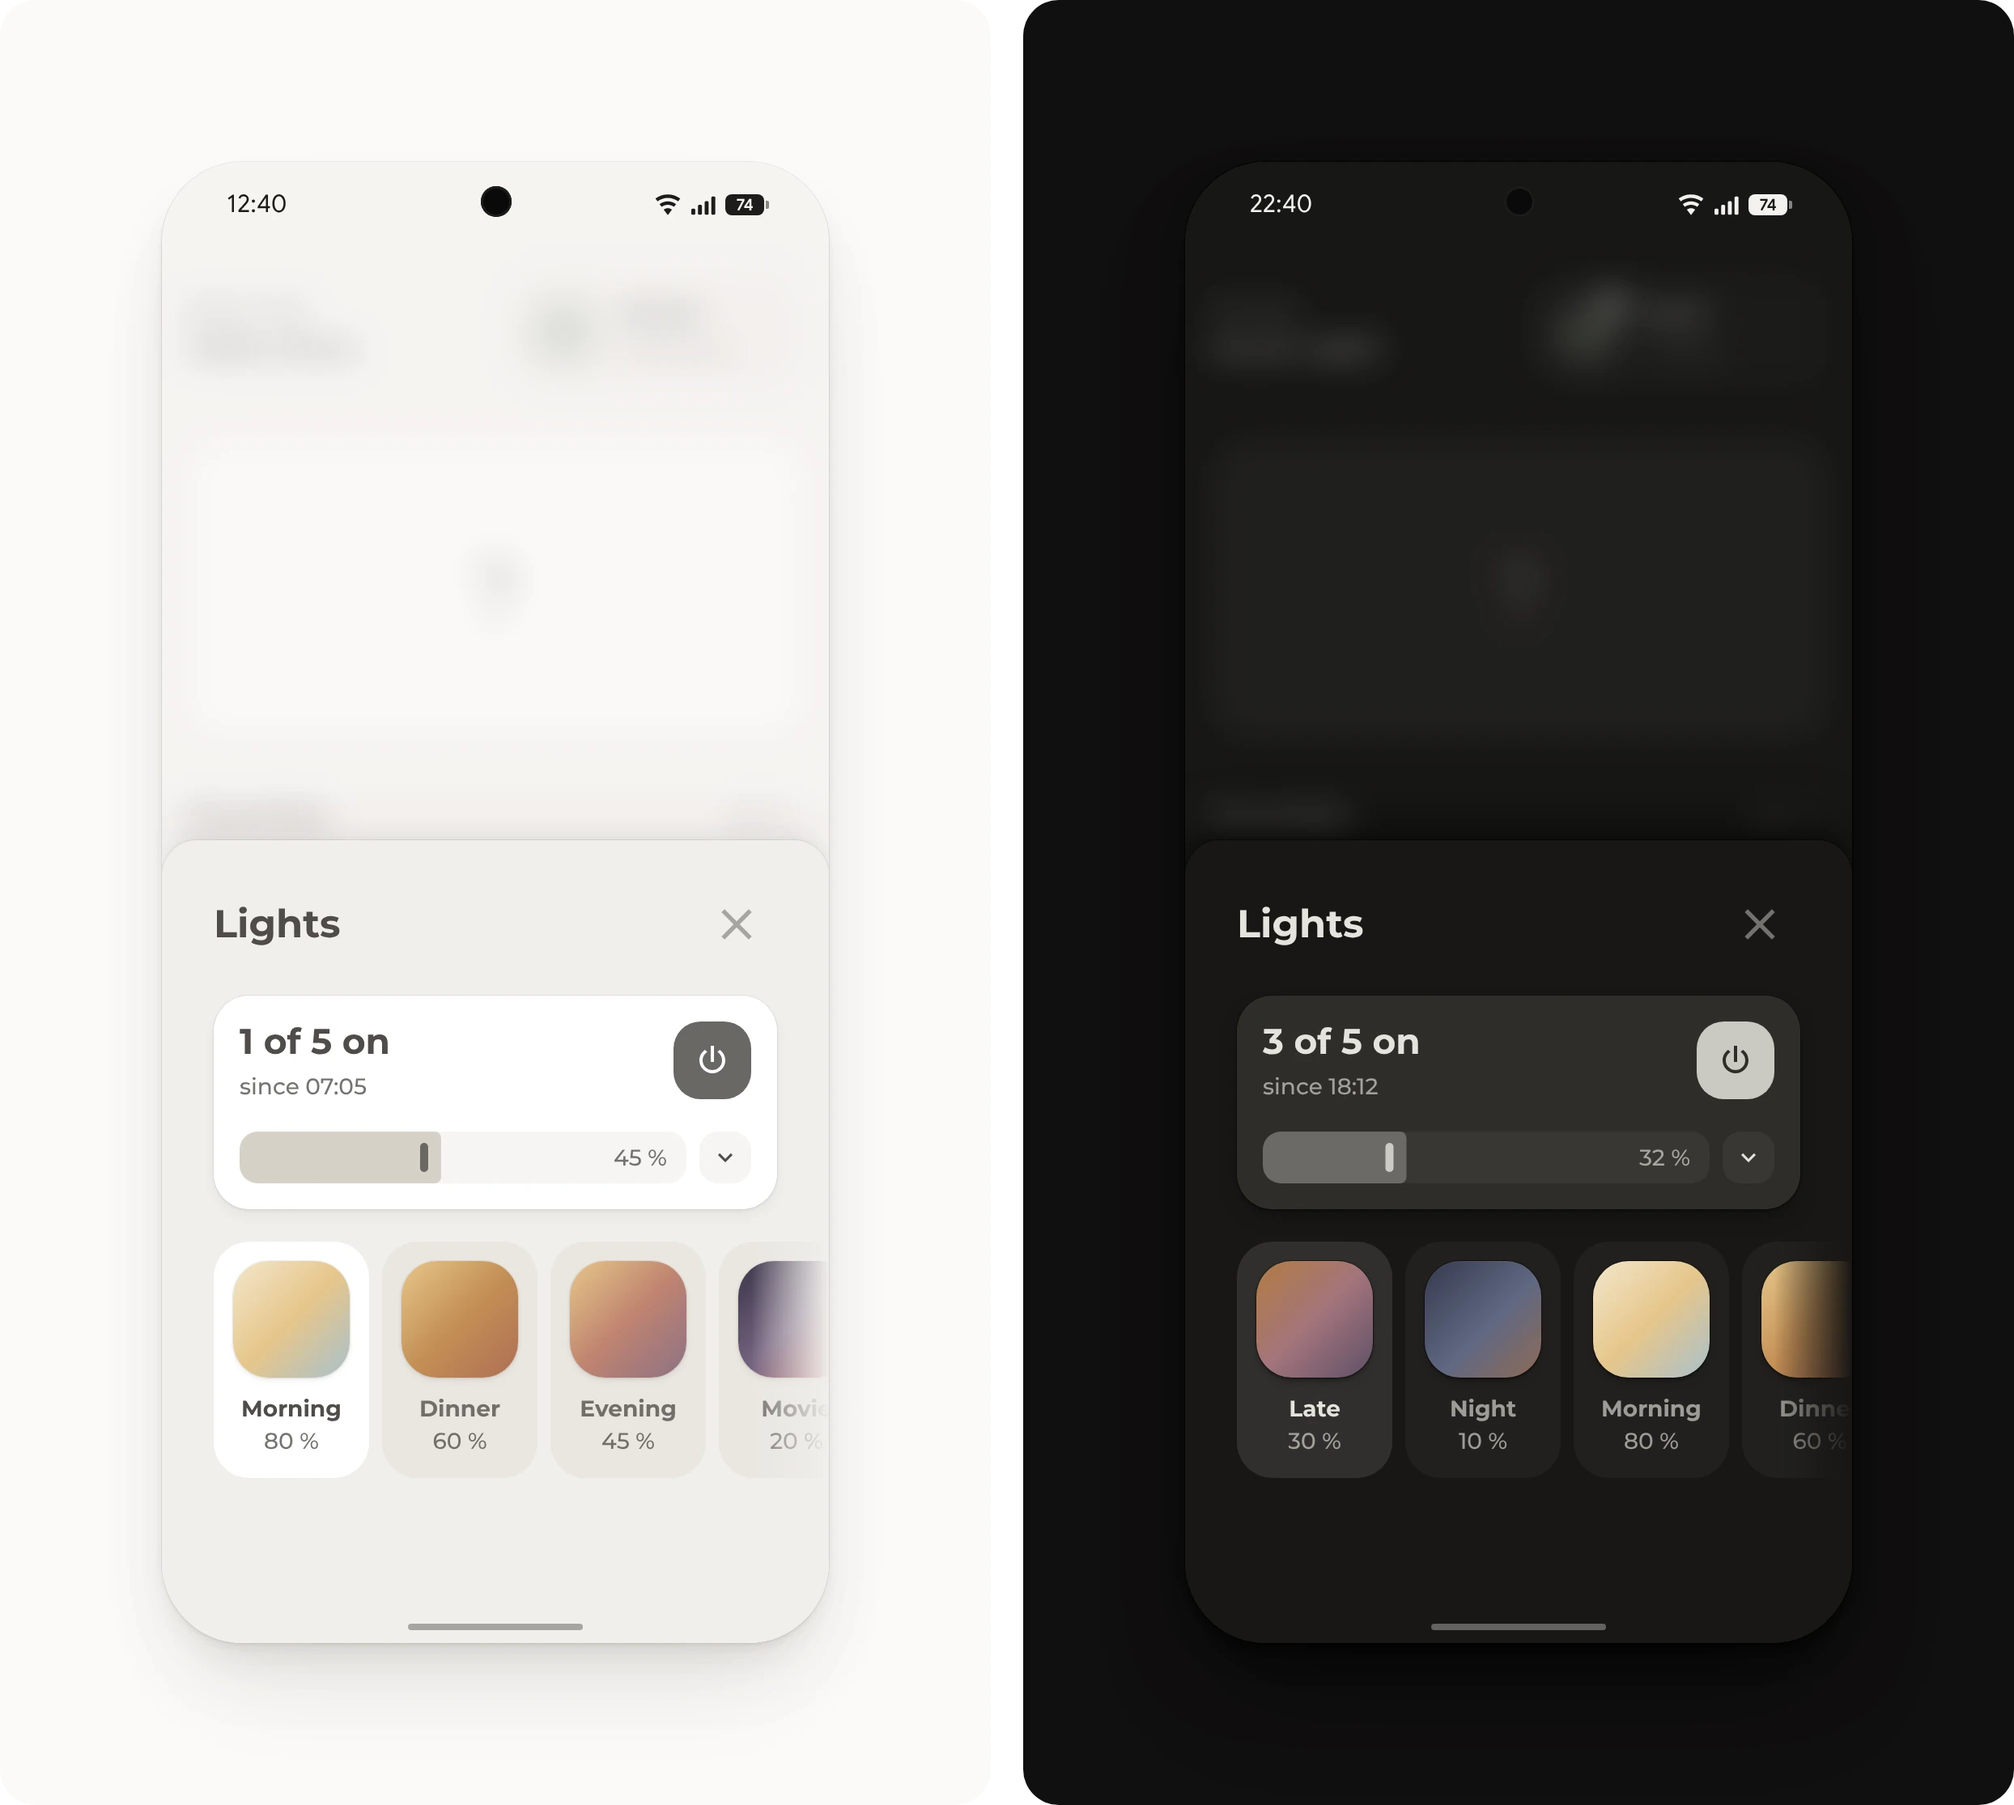
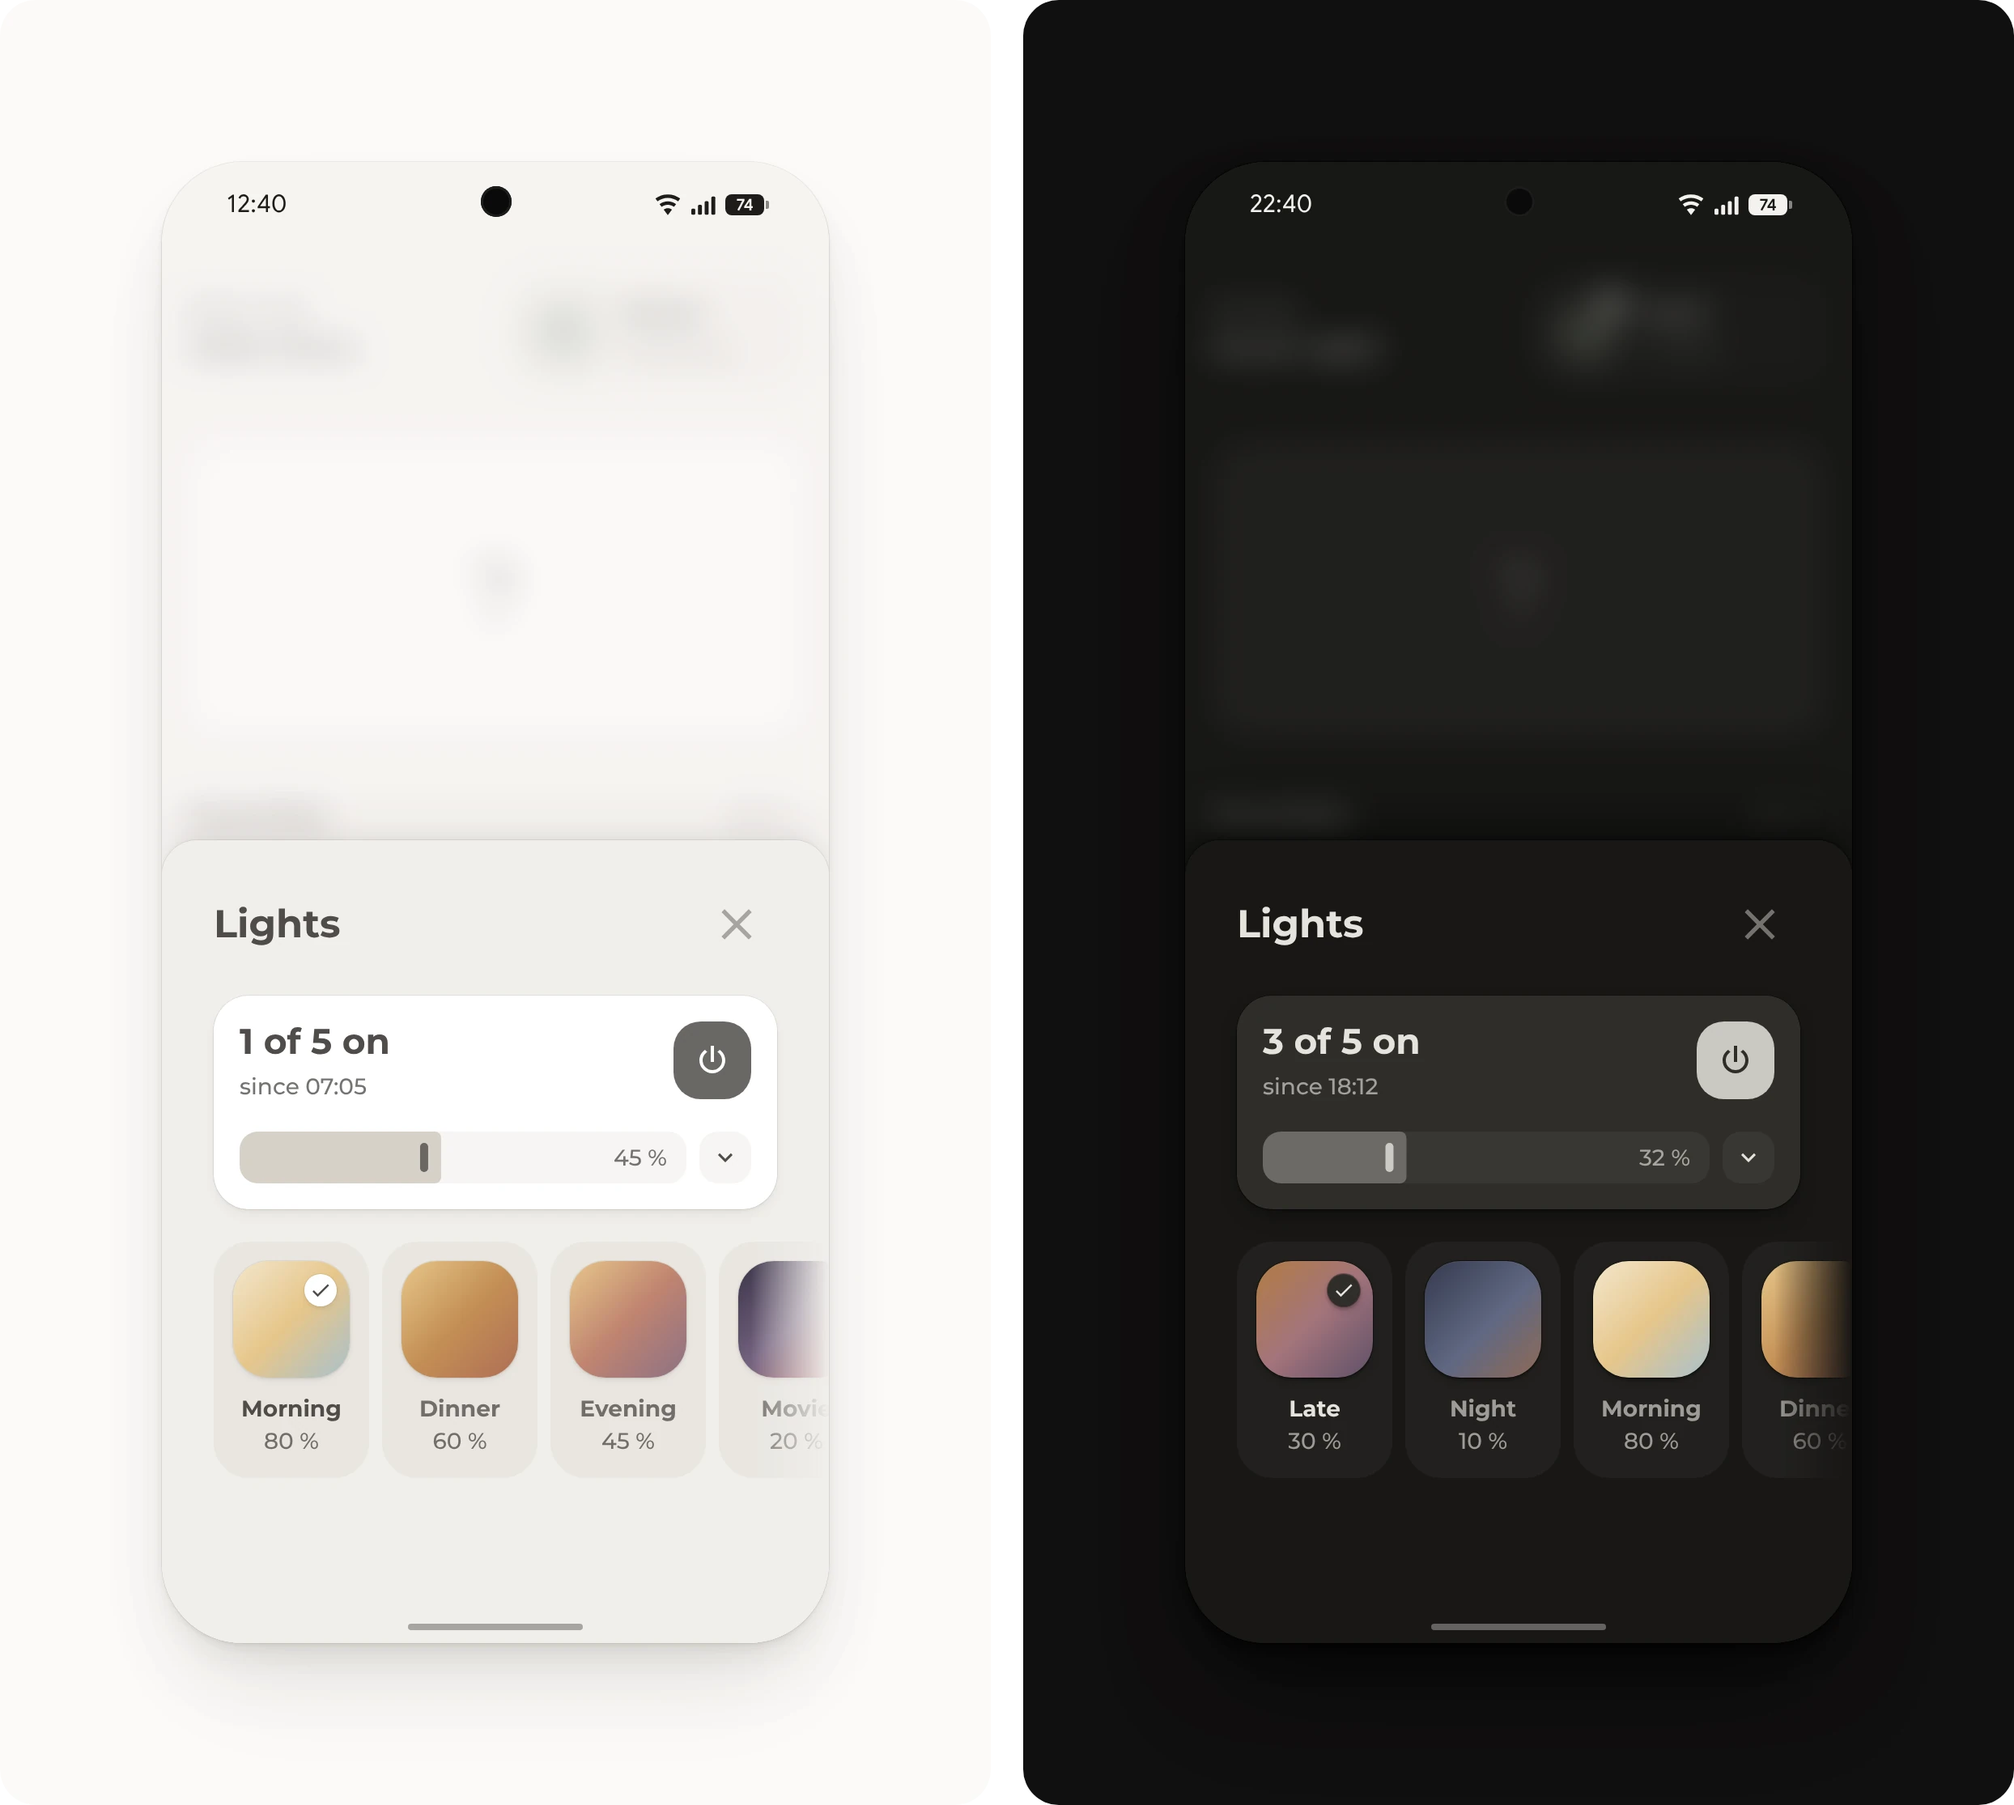
A check badge marks the active scene
The active box with colors keeps its fill and its colors, and a small round badge
with a check stands in the field's top corner: the card background with the chip
shadow, as the badges on the navigation bar, so it shows on light and dark colors
alike. It lies inside the field, so it takes no space and the scrolling row cuts
nothing off.

Changed region(s): [[0.0928, 0.6807, 0.1857, 0.8354], [0.6499, 0.7117, 0.6809, 0.7426]]

diff --git a/CHANGELOG.md b/CHANGELOG.md
@@ -102,7 +102,7 @@ These changes are in the `next` branch and come with the next release.
 - `active` also matches the entity that a button's tap targets.
 - Each button can have its own `name`, `icon`, `color`, `name_color`, `background` and `order` under an `origami_button` key. Its `color` is also its lamp color while it is lit.
 - A lit button is tinted in its own lamp color, such as the state color of its entity, instead of always the card's.
-- A button with `content_layout: icon-top` is a box like a tile, with its icon in a field above its name, 12 px around the field, 14 px above the text and 18 px below it, and the boxes in a row share one width. A box's name is bold. A lit box tints its field in its own color, as a lit tile does, and a box whose field holds a picture or colors takes the color of a key on a gray fill instead, without a shadow. A button's own `field` fills the field with a picture or a gradient instead of the icon, and its `label` adds a second line under the name, such as a scene's brightness. Both also work with `labels: below`.
+- A button with `content_layout: icon-top` is a box like a tile, with its icon in a field above its name, 12 px around the field, 14 px above the text and 18 px below it, and the boxes in a row share one width. A box's name is bold. A lit box tints its field in its own color, as a lit tile does, and a box whose field holds a picture or colors gets a small badge with a check in its field's corner instead. A button's own `field` fills the field with a picture or a gradient instead of the icon, and its `label` adds a second line under the name, such as a scene's brightness. Both also work with `labels: below`.
 - A button with `css_class: divider` is a short line between two buttons.
 - The active segment of a bar or a small switch has the fill of an active button with `active_style: toggle`, and it casts the chip shadow.
 - On a button card, a lit button has the tint of the card's lit icon. On a tile, the buttons have the card background and the chip shadow, as keys do.
@@ -154,7 +154,7 @@ These changes are in the `next` branch and come with the next release.
 - The pop-ups no longer set `shadow_opacity`, because Popup gives every pop-up the theme's shadow.
 - The navbar follows the rules of the Bubble cards. A line along the bottom of the now playing card shows how far the track has played.
 - The favorites come in two versions with the same favorites: a row of boxes that scrolls sideways, each with its icon and a short name, like the scenes in the lights pop-up, and a grid of tiles for a larger screen. The README shows both.
-- The lights pop-up shows how many lamps are on and since when. Each scene shows its colors in a rounded square, with the theme's corners, and its brightness under its name, and the active scene's box is white in light mode and one step lighter in dark mode.
+- The lights pop-up shows how many lamps are on and since when. Each scene shows its colors in a rounded square, with the theme's corners, and its brightness under its name, and a small badge with a check marks the active scene.
 - The weather card shows the forecast for the week and a two-story house whose rooms light up and show their temperature. Rain and snow fall in front of the house, and its images load from the repository, so a home needs no files of its own.
 
 ### Bug fixes

diff --git a/bubble_card/README.md b/bubble_card/README.md
@@ -940,7 +940,7 @@ Each button can have an `origami_button` key with `name`, `icon`, `color`, `name
     background: var(--tint)
 ```
 
-With `content_layout: icon-top` or `icon-bottom`, a button is a box like a tile, with its icon in a field above or below its name, as the scenes in the [lights pop-up](../dashboard/lights/README.md) and the [favorites](../dashboard/favorites/README.md). The field has 12 px of the box around it, the name stands 14 px below the field, and the last line ends 18 px above the box's edge. The boxes in a row share one width. A box's name is bold, as a tile's is. A highlighted box keeps its fill, and its field is tinted in the button's own color, as a lit tile's icon is. A box whose field holds a picture or colors keeps them, and the box takes the color of a key on a gray fill instead: white in light mode and one step lighter in dark mode. It casts no shadow, because a key on the page changes only its color. With `background: false`, the box and the field have no fill.
+With `content_layout: icon-top` or `icon-bottom`, a button is a box like a tile, with its icon in a field above or below its name, as the scenes in the [lights pop-up](../dashboard/lights/README.md) and the [favorites](../dashboard/favorites/README.md). The field has 12 px of the box around it, the name stands 14 px below the field, and the last line ends 18 px above the box's edge. The boxes in a row share one width. A box's name is bold, as a tile's is. A highlighted box keeps its fill, and its field is tinted in the button's own color, as a lit tile's icon is. A box whose field holds a picture or colors keeps them and its fill, and a small round badge with a check in the field's top corner marks it instead, in the card background with the chip shadow, as the badges on the navigation bar. With `background: false`, the box and the field have no fill.
 
 A button's own `order` moves it in the row, such as `-1` to the front, and a map from its state moves it only in those states. In a box or with `labels: below`, its own `field` fills the field with a picture or colors instead of the icon, such as a recipe photo or a scene's colors, and its own `label` is a second line under the name, such as a scene's brightness. A gradient needs quotes, because YAML reads `#` as the start of a comment:
 

diff --git a/dashboard/lights/README.md b/dashboard/lights/README.md
@@ -17,7 +17,7 @@ All lamps of a room at once or each one on its own, and the room's scenes.
 
 ## Optional
 
-- **Scenes.** For a room with [scenes](https://www.home-assistant.io/docs/scene/): a box for each scene with its colors, its name and its brightness, starting with the scene for the time of day. While a lamp is on, the box of the scene turned on last is white in light mode and one step lighter in dark mode. Change the buttons in the group **Scenes** to the room's scenes, and list the same scenes under `active`. Without scenes, delete the card with the scenes.
+- **Scenes.** For a room with [scenes](https://www.home-assistant.io/docs/scene/): a box for each scene with its colors, its name and its brightness, starting with the scene for the time of day. While a lamp is on, a small badge with a check marks the scene turned on last. Change the buttons in the group **Scenes** to the room's scenes, and list the same scenes under `active`. Without scenes, delete the card with the scenes.
 
 > [!TIP]
 > A scene's `field` is a gradient of its colors and its `label` its brightness, such as `45 %`, written as the slider writes it. `start` names a `css_class` for each time of day, so the row begins with the scene that fits. A scene without a `field` shows its icon.
